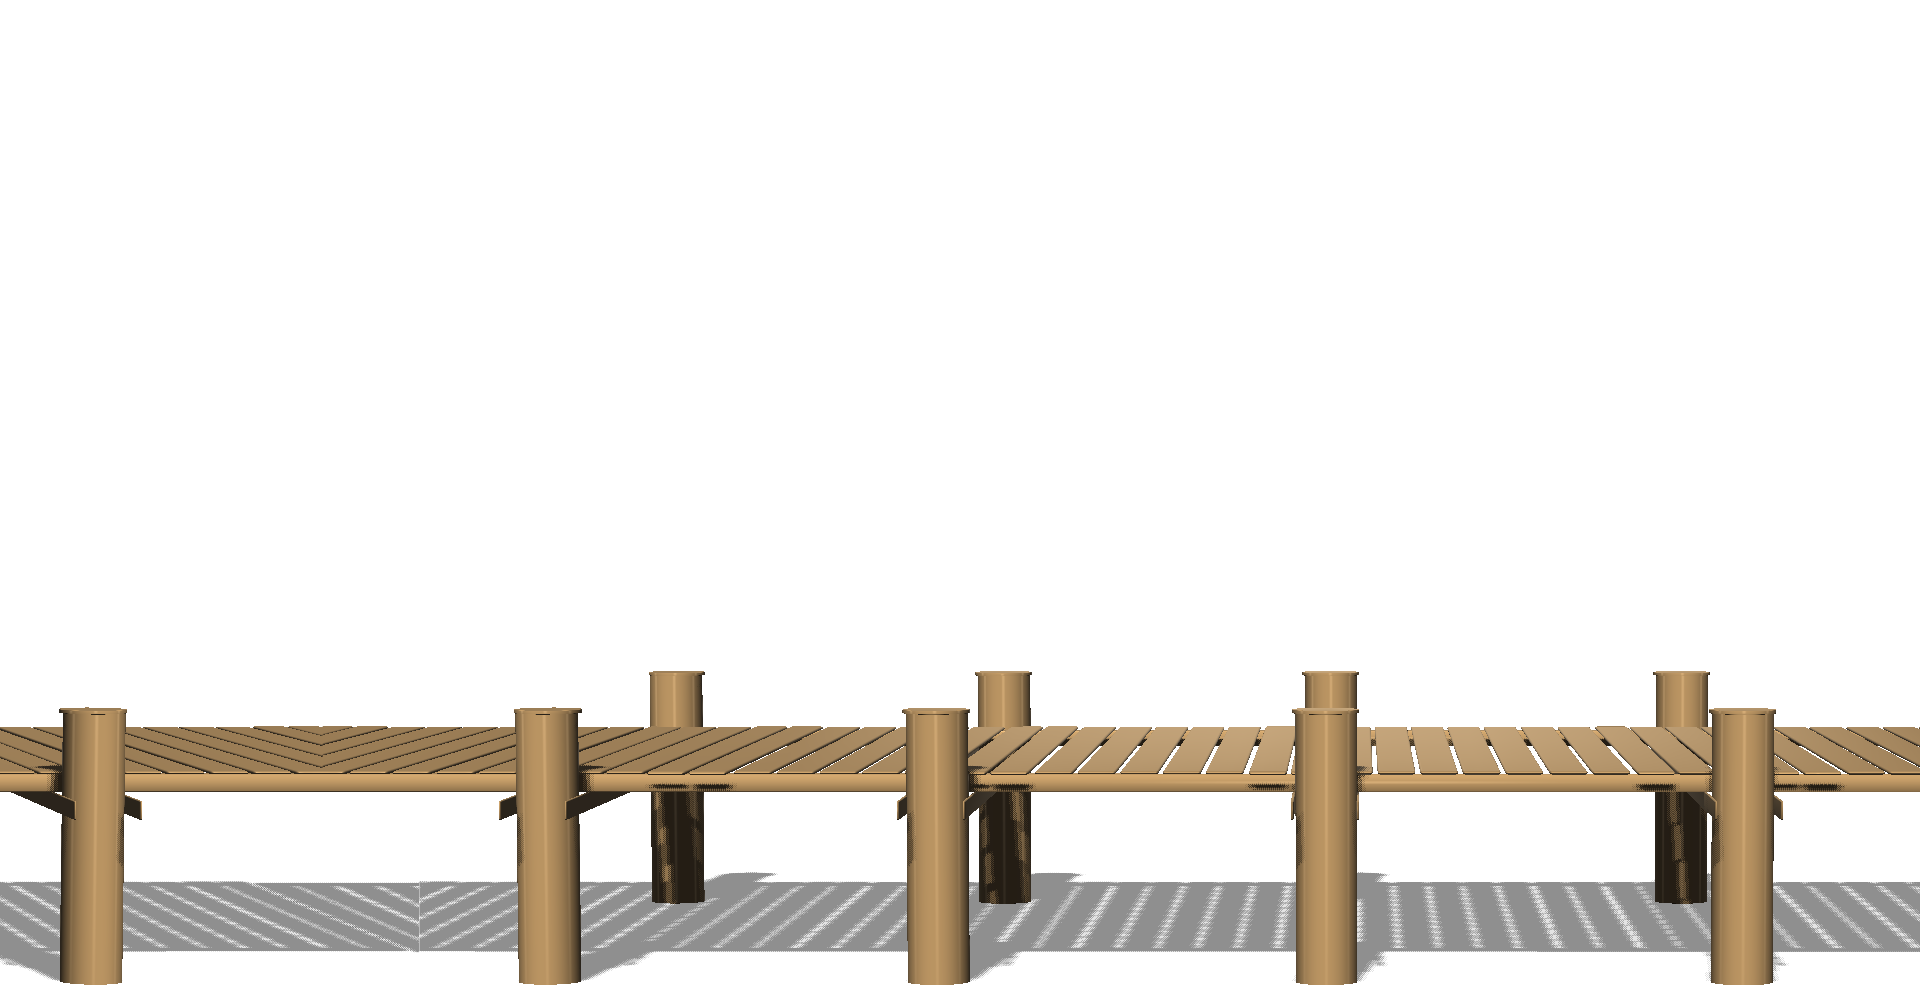
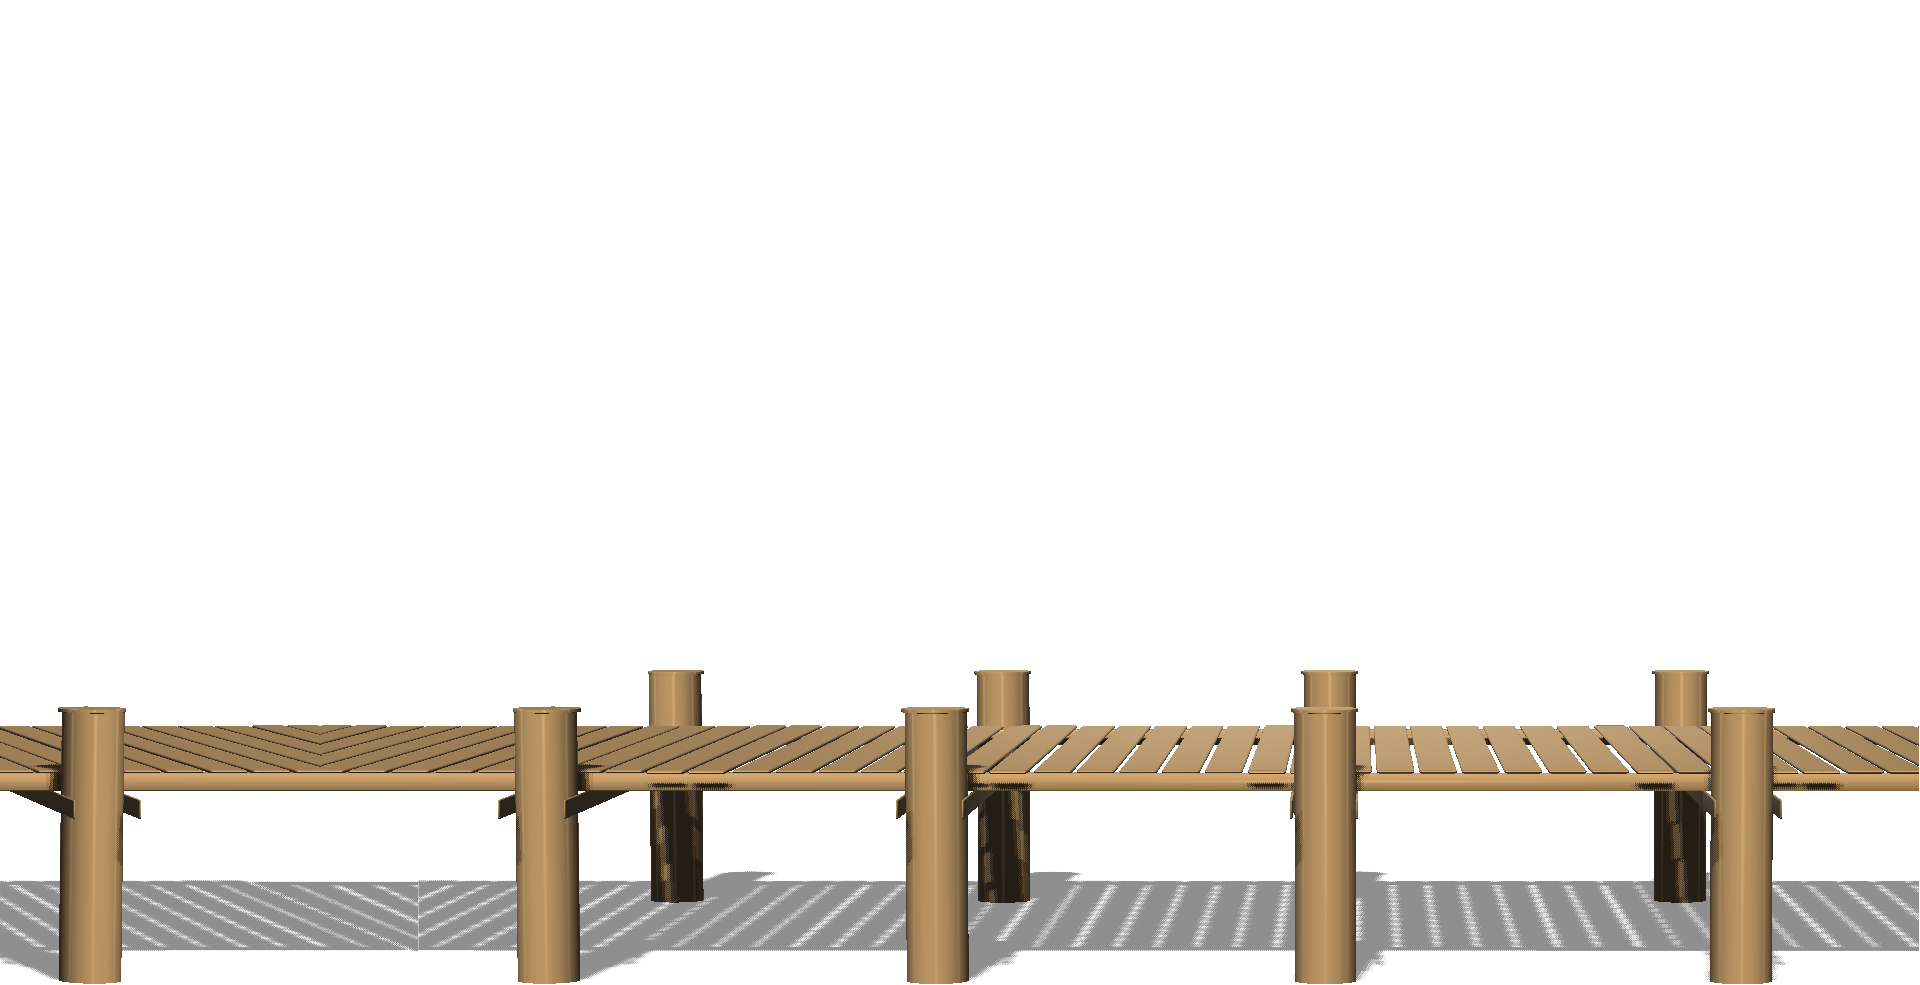
Bridge optimierung

diff --git a/informatikProjekt_Lynn_Michèle_L23a.py b/informatikProjekt_Lynn_Michèle_L23a.py
@@ -60,14 +60,23 @@ background.x = 0
 background1 = Actor("forestbackground1.jpg")
 background1.x = WIDTH
 
-bridge = Actor("bridge5.png")
-bridge.x = 0
-bridge1 = Actor ("bridge6.png")
-bridge1.x = WIDTH
-bridge2 = Actor("bridge5.png")
-bridge2.x = 0
-bridge3 = Actor("bridge6.png")
-bridge3.x = WIDTH
+bridge1 = Actor("bridge5.png")
+bridge1.x = 0
+bridge2 = Actor ("bridge5.1.png")
+bridge2.x = WIDTH
+bridge3 = Actor("bridge5.1.png")
+bridge3.x = 0
+bridge4 = Actor("bridge5.png")
+bridge4.x = WIDTH
+
+bridge5 = Actor("bridge6.png")
+bridge5.x = 0
+bridge6 = Actor ("bridge6.1.png")
+bridge6.x = WIDTH
+bridge7 = Actor("bridge6.1.png")
+bridge7.x = 0
+bridge8 = Actor("bridge6.png")
+bridge8.x = WIDTH
 
 test = Actor("mensch1.png")
 test.x = 100
@@ -91,12 +100,20 @@ def draw():
     screen.clear() #damit nur immer ein Bild dort ist und nicht übereindander, da sonst beim weiterdrücken ein teil des hinteren bildes noch zu sehen ist.
     background.draw()
     background1.draw()
-    bridge.draw()
-    bridge3.draw()
+    bridge1.draw()
+    bridge4.draw()
+    
+    bridge5.draw()
+    bridge7.draw()
+    
     test.draw()
+    
     kostuemwechseln()
-    bridge1.draw()   
-    bridge2.draw()
+    bridge2.draw()   
+    bridge3.draw()
+    
+    bridge6.draw()
+    bridge8.draw()
 
     if starttext and not startgame: #wenn der starttext true ist und das startgame false, nur dann wird der Text angezeigt: also der Starttext soll angezeigt werden, wenn das Game noch nicht gestartet ist.
         white = 255, 255, 255
@@ -211,23 +228,34 @@ def movebackground():
     if background1.right < 0:
         background1.left = background.right
     
-    bridge.x = bridge.x - 3
-    bridge3.x = bridge3.x - 3
-    bridge1.x = bridge1.x - 3
+    bridge1.x = bridge1.x - 3  
     bridge2.x = bridge2.x - 3
+    bridge3.x = bridge3.x - 3  
+    bridge4.x = bridge4.x - 3
+    bridge5.x = bridge5.x - 3  
+    bridge6.x = bridge6.x - 3
+    bridge7.x = bridge7.x - 3
+    bridge8.x = bridge8.x - 3  
 
-    if bridge.right < 0:
-        bridge.left = bridge1.right
-        
     if bridge1.right < 0:
-        bridge1.left = bridge.right
-
+        bridge1.left = bridge2.right
+            
     if bridge2.right < 0:
         bridge2.left = bridge3.right
         
-    if bridge3.right < 0:
-        bridge3.left = bridge2.right
+    if bridge2.right < 0:
+        bridge2.left = bridge1.right
+    
+    if bridge5.right < 0:
+        bridge5.left = bridge6.right
+            
+    if bridge6.right < 0:
+        bridge6.left = bridge7.right
         
+    if bridge6.right < 0:
+        bridge6.left = bridge5.right
+    
+           
 # Kostümwechsel zwischen mensch1 und mensch2
 def kostuemwechseln():
     if test.image == "mensch1.png":
